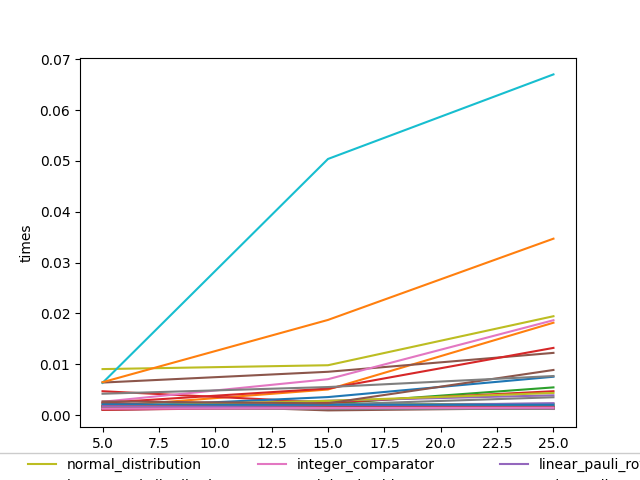
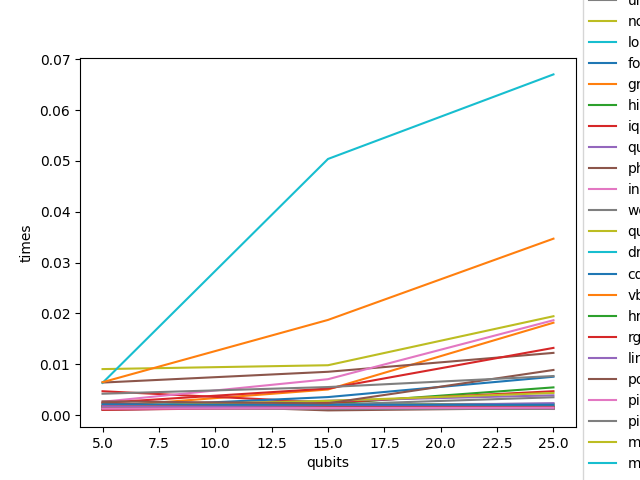
More plots

diff --git a/benchmarking/data-analysis/error_mitigation.py b/benchmarking/data-analysis/error_mitigation.py
@@ -1,0 +1,74 @@
+from matplotlib import pyplot as plt
+from plot_hardware import qubit_count
+
+
+# Plotting Method
+def plot_circuit_series(filename, measurements, qubits, circuit_values):
+    x = "measurement_frequency"
+    y = "times"
+
+    for i in range(0, len(qubits)):
+        plt.plot(measurements, circuit_values[i], label="qubit num. "+str(qubits[i]))
+    plt.legend(loc='center left', bbox_to_anchor=(1, 0.5))
+    plt.xlabel(x)
+    plt.ylabel(y)
+    plt.xscale('log')
+    plt.savefig(filename)
+    plt.show()
+
+
+meaurmenent_counts = [1, 10, 100, 1000, 10000]
+
+# Fourier Checking
+fourier_5 = [0.0015552043914794922, 0.00419163703918457, 0.004338979721069336, 0.004442453384399414, 0.004245664596557617]
+fourier_15 = [0.0017101764678955078,0.0016987323760986328,0.0018279552459716797,0.0016982555389404297, 0.0017032623291015625]
+fourier_25 = [0.0018101764678955078,0.0018987323760986328,0.0019279552459716797,0.0018982555389404297, 0.0018032623291015625]
+
+fourier = [fourier_5, fourier_15, fourier_25]
+
+plot_circuit_series("error-mitigation/fourier", meaurmenent_counts, qubit_count, fourier)
+
+# Graph State
+graph_state_5 = [0.004237651824951172, 0.004283905029296875, 0.004235744476318359, 0.004435300827026367, 0.0033478736877441406]
+graph_state_15 = [0.0025963783264160156, 0.0032482147216796875, 0.0017275810241699219, 0.0037376880645751953, 0.0032036304473876953]
+graph_state_25 = [0.0024957656860351562, 0.001695394515991211, 0.002837657928466797, 0.0021958351135253906, 0.0032296180725097656]
+
+graph_state = [graph_state_5, graph_state_15, graph_state_25]
+
+plot_circuit_series("error-mitigation/graph_state.png", meaurmenent_counts, qubit_count, graph_state)
+
+# Hidden Linear Functions
+hlf_5 = [0.004270792007446289, 0.004221439361572266, 0.002185344696044922, 0.004270315170288086, 0.0043141841888427734]
+hlf_15 = [0.002771139144897461, 0.0024518966674804688, 0.002363443374633789, 0.003195047378540039, 0.0030210018157958984]
+hlf_25 = [0.00293731689453125, 0.0027055740356445312, 0.0023648738861083984, 0.0028791427612304688, 0.002352476119995117]
+
+hlf = [hlf_5, hlf_15, hlf_25]
+
+plot_circuit_series("error-mitigation/hlf.png", meaurmenent_counts, qubit_count, hlf)
+
+# IQP
+iqp_5 = [0.0024025440216064453, 0.0019953250885009766, 0.0028755664825439453, 0.0024080276489257812, 0.0031311511993408203]
+iqp_15 = [0.0021255016326904297, 0.0020329952239990234, 0.0020914077758789062, 0.0020284652709960938, 0.002021312713623047]
+iqp_25 = [0.0024111270904541016, 0.002452850341796875, 0.0024459362030029297, 0.002575397491455078, 0.002641916275024414]
+
+iqp = [iqp_5, iqp_15, iqp_25]
+
+plot_circuit_series("error-mitigation/iqp.png", meaurmenent_counts, qubit_count, iqp)
+
+# Quantum Volume
+qv_5 = [0.0019474029541015625, 0.0021491050720214844, 0.0019631385803222656, 0.001760244369506836, 0.002580404281616211]
+qv_15 = [0.0018846988677978516, 0.0017895698547363281, 0.001806497573852539, 0.0018258094787597656, 0.0018625259399414062]
+qv_25 = [0.002277374267578125, 0.002415895462036133, 0.0023734569549560547, 0.002448558807373047, 0.0023140907287597656]
+
+qv = [qv_5, qv_15, qv_25]
+
+plot_circuit_series("error-mitigation/qv.png", meaurmenent_counts, qubit_count, qv)
+
+# Phase Estimation
+phase_estimation_5 = [0.0023458003997802734, 0.002457857131958008, 0.0024001598358154297, 0.0023598670959472656, 0.002312183380126953]
+phase_estimation_15 = [0.0009253025054931641, 0.0009300708770751953, 0.0009174346923828125, 0.0009143352508544922, 0.0009362697601318359]
+phase_estimation_25 = [0.0014119148254394531, 0.0013856887817382812, 0.0013885498046875, 0.0013506412506103516, 0.0013644695281982422]
+
+phase_estimation = [phase_estimation_5, phase_estimation_15, phase_estimation_25]
+
+plot_circuit_series("error-mitigation/phase_estimation.png", meaurmenent_counts, qubit_count, phase_estimation)

diff --git a/benchmarking/data-analysis/plot_hardware.py b/benchmarking/data-analysis/plot_hardware.py
@@ -8,8 +8,7 @@ def plot_circuit_series(filename, qubits, circuit_names, circuit_values):
 
     for i in range(0, len(circuit_names)):
         plt.plot(qubits, circuit_values[i], label=circuit_names[i])
-    plt.legend(loc='upper center', bbox_to_anchor=(0.5, -0.05),
-          fancybox=True, shadow=True, ncol=5)
+    plt.legend(loc='center left', bbox_to_anchor=(1, 0.5))
     plt.xlabel(x)
     plt.ylabel(y)
     plt.savefig(filename)
@@ -46,7 +45,7 @@ literal_arithmetic_circuits = [integer_comparator,
                                 hrs_cum_mult,
                                 rgqft_mult]
 
-# plot_circuit_series("arithmetic_circuits.png", qubit_count, arithmetic_circuits, literal_arithmetic_circuits)
+plot_circuit_series("arithmetic_circuits.png", qubit_count, arithmetic_circuits, literal_arithmetic_circuits)
 
 # N-Local Circuits
 n_local_circuits = ['qft',
@@ -73,7 +72,7 @@ literal_n_local_circuits = [qft,
                             excitation_preserving,
                             excitation_preserving_linear]
 
-# plot_circuit_series("n_local_circuits.png", qubit_count, n_local_circuits, literal_n_local_circuits)
+plot_circuit_series("n_local_circuits.png", qubit_count, n_local_circuits, literal_n_local_circuits)
 
 # Particular Quantum Circuits
 particular_circuits = ['fourier_checking',
@@ -97,7 +96,7 @@ literal_particular_circuits = [fourier_checking,
                                quantum_volume,
                                phase_estimation]
 
-# plot_circuit_series("particular_circuits.png", qubit_count, particular_circuits, literal_particular_circuits)
+plot_circuit_series("particular_circuits.png", qubit_count, particular_circuits, literal_particular_circuits)
 
 # Probability Distribution Circuits
 prob_distro_circuits = ['uniform_distribution',
@@ -112,7 +111,7 @@ literal_prob_distro_circuits = [uniform_distribution,
                                 normal_distribution,
                                 log_normal_distribution]
 
-#plot_circuit_series("prob_distro_circuits.png", qubit_count, prob_distro_circuits, literal_prob_distro_circuits)
+plot_circuit_series("prob_distro_circuits.png", qubit_count, prob_distro_circuits, literal_prob_distro_circuits)
 
 # Standard Gates
 standard_gates = ['barrier',
@@ -124,7 +123,7 @@ mc_phase = [0.004196882247924805, 0.005513191223144531, 0.007679939270019531]
 literal_standard_gates = [barrier,
                           mc_phase]
 
-#plot_circuit_series("standard_circuits.png", qubit_count, standard_gates, literal_standard_gates)
+plot_circuit_series("standard_circuits.png", qubit_count, standard_gates, literal_standard_gates)
 
 # Pauli-Rotational Circuits
 pauli_rotational_gates = ['linear_pauli_rotations',
@@ -142,7 +141,7 @@ literal_pauli_rotations = [linear_pauli_rotations,
                            piecewise_lin_pauli_rotations,
                            piecewise_poly_pauli_rotations]
 
-#plot_circuit_series("pauli_rotational_circuits.png", qubit_count, pauli_rotational_gates, literal_pauli_rotations)
+plot_circuit_series("pauli_rotational_circuits.png", qubit_count, pauli_rotational_gates, literal_pauli_rotations)
 
 # Generalized Gates
 generalized_gates = ['mcmt',
@@ -173,7 +172,7 @@ literal_generalized_gates = [mcmt,
                              gry,
                              grz]
 
-#plot_circuit_series("circuits/generalized_gates.png", qubit_count, generalized_gates, literal_generalized_gates)
+plot_circuit_series("circuits/generalized_gates.png", qubit_count, generalized_gates, literal_generalized_gates)
 
 final_list = literal_n_local_circuits + literal_prob_distro_circuits + literal_particular_circuits\
                    + literal_arithmetic_circuits + literal_pauli_rotations + literal_generalized_gates\

diff --git a/benchmarking/data-analysis/noise_pulse_profiling.py b/benchmarking/data-analysis/noise_pulse_profiling.py
@@ -1,9 +1,9 @@
 import matplotlib.pyplot as plt
 from plot_hardware import plot_circuit_series
 
-noise_qubit = [12, 16, 20]
+qubit = [12, 16, 20]
 
-noise_circuits = ['fourier_checking',
+damping_noise = ['fourier_checking',
                   'graph_state',
                   'hidden_linear_function',
                   'iqp',
@@ -11,18 +11,41 @@ noise_circuits = ['fourier_checking',
                   'phase_estimation']
 
 
-fourier_checking = [0.001523733139038086, 0.003541231155395508, 0.007541231155395508]
-graph_state = [0.0015609264373779297, 0.0013730525970458984, 0.0013060569763183594]
-hidden_linear_function = [0.001886129379272461, 0.0012502670288085938, 0.0012717247009277344]
-iqp = [0.002405881881713867, 0.005211830139160156, 0.013214826583862305]
-quantum_volume = [0.0018541812896728516, 0.0016889572143554688, 0.0023360252380371094]
-phase_estimation = [0.0023887157440185547, 0.0009195804595947266, 0.0013735294342041016]
+fourier_checking = [0.05328655242919922, 0.05523228645324707, 0.11886787414550781]
+graph_state = [0.06038928031921387, 0.05713629722595215, 0.10975933074951172]
+hidden_linear_function = [0.07265567779541016, 0.11040592193603516, 0.06953048706054688]
+iqp = [0.08864378929138184, 0.08291220664978027, 0.07298707962036133]
+quantum_volume = [0.06019949913024902, 0.07570600509643555, 0.06973075866699219]
+phase_estimation = [0.03302001953125, 0.03224349021911621, 0.04004240036010742]
 
-literal_particular_circuits = [fourier_checking,
-                               graph_state,
-                               hidden_linear_function,
-                               iqp,
-                               quantum_volume,
-                               phase_estimation]
+literal_damping_noise = [fourier_checking,
+                         graph_state,
+                         hidden_linear_function,
+                         iqp,
+                         quantum_volume,
+                         phase_estimation]
 
-# plot_circuit_series("particular_circuits.png", qubit_count, particular_circuits, literal_particular_circuits)
+plot_circuit_series("damping_noise_profiles.png", qubit, damping_noise, literal_damping_noise)
+
+depolarising_noise = ['fourier_checking',
+                  'graph_state',
+                  'hidden_linear_function',
+                  'iqp',
+                  'quantum_volume',
+                  'phase_estimation']
+
+fourier_checking = [0.004895448684692383, 0.010708093643188477, 0.3521573543548584]
+graph_state = [0.007156848907470703, 0.005805492401123047, 0.006085872650146484]
+hidden_linear_function = [0.005984306335449219, 0.005419731140136719, 0.011576652526855469]
+iqp = [0.005495786666870117, 0.005492687225341797, 0.005217790603637695]
+quantum_volume = [0.00456547737121582, 0.0046405792236328125, 0.005121469497680664]
+phase_estimation = [0.0035953521728515625, 0.004235982894897461, 0.004595756530761719]
+
+literal_depolarising_noise = [fourier_checking,
+                              graph_state,
+                              hidden_linear_function,
+                              iqp,
+                              quantum_volume,
+                              phase_estimation]
+
+plot_circuit_series("noise/depolarising_noise_profiles.png", qubit, depolarising_noise, literal_depolarising_noise)

diff --git a/benchmarking/data-analysis/algorithm_benchmarks.py b/benchmarking/data-analysis/algorithm_benchmarks.py
@@ -1,0 +1,90 @@
+import numpy as np
+import pandas as pd
+import matplotlib.pyplot as plt
+
+def plot_historgram(X, data, groupings, name, title):
+    to_add = {}
+    for i in range(0, len(data)):
+        to_add[groupings[i]] = data[i]
+
+    df = pd.DataFrame(to_add, index=X)
+    ax = df.plot.bar(rot=0)
+    plt.xlabel("Nodes")
+    plt.ylabel("Time (ms)")
+    plt.savefig(name)
+    plt.title(title)
+    plt.show()
+
+
+# Knapsack
+knap_max_weights = [2, 4, 8, 16]
+knap_types = ["qubo", "grover", "qaoa", "vqe"]
+
+knap_vals_qubo = [13.3, 14.0, 13.4, 12.4]
+knap_vals_grover = [117, 255, 214, 166]
+knap_vals_qaoa = [176, 230, 318, 383]
+knap_vals_vqe = [144, 165, 211, 232]
+knap_all = [knap_vals_qubo, knap_vals_grover, knap_vals_qaoa, knap_vals_vqe]
+
+#plot_historgram(knap_max_weights, knap_all, knap_types, "algos/knapsack.png", "Knapsack benchmarks with different weight counts")
+
+# Maxcut
+maxcut_degrees = [3, 5, 7, 9]
+maxcut_types = ["qubo", "10x(grover)", "qaoa", "vqe"]
+
+maxcut_vals_qubo = [11.5, 14.2, 20, 23.2]
+maxcut_vals_grover = [8.52, 12.1, 11.66, 11.0]
+maxcut_vals_qaoa = [271, 348, 425, 539]
+maxcut_vals_vqe = [293, 311, 375, 380]
+maxcut_all = [maxcut_vals_qubo, maxcut_vals_grover, maxcut_vals_qaoa, maxcut_vals_vqe]
+
+#plot_historgram(maxcut_degrees, maxcut_all, maxcut_types, "algos/maxcutsack.png", "Maxcuts benchmarks with 12 nodes at different degrees")
+
+# Vertex-cover
+vc_degrees = [3, 5, 7, 9]
+vc_types = ["qubo", "10x(grover)", "qaoa", "vqe"]
+
+vc_vals_qubo = [12.2, 16.1, 18.0, 21.4]
+vc_vals_grover = [7.56, 8.72, 11.1, 10.6]
+vc_vals_qaoa = [394, 477, 571, 656]
+vc_vals_vqe = [358, 412, 469, 475]
+vc_all = [vc_vals_qubo, vc_vals_grover, vc_vals_qaoa, vc_vals_vqe]
+
+#plot_historgram(vc_degrees, vc_all, vc_types, "algos/vertex_cover.png", "Vertex cover benchmarks with 12 nodes at different degrees")
+
+# Docplex
+lower_bound = ['lower bound -4', 'lower bound -3', 'lower bound -2', 'lower bound -1']
+upper_bound = [2, 3, 4, 5]
+
+lb_4 = [1.62, 1.57, 1.57, 1.54]
+lb_3 = [1.52, 1.64, 1.58, 1.61]
+lb_2 = [2.08, 1.53, 1.57, 1.66]
+lb_1 = [1.58, 1.62, 1.59, 1.58]
+lb_all = [lb_4, lb_3, lb_2, lb_1]
+
+#plot_historgram(upper_bound, lb_all, lower_bound, "algos/docplex.png", "Docplex benchmarks for qubo at different ranges")
+
+# Clique
+clique_nodes = [5, 10, 17]
+clique_types = ["2-degrees", "4-degrees", "8-degrees", "16-degrees"]
+
+clique_vals_2 = [122, 420, 1570]
+clique_vals_4 = [85, 354, 1410]
+clique_vals_8 = [0, 233, 1086]
+clique_vals_16 = [0, 0, 386]
+clique_all = [clique_vals_2, clique_vals_4, clique_vals_8, clique_vals_16]
+
+#plot_historgram(clique_nodes, clique_all, clique_types, "algos/clique.png", "Clique benchmarks different node degree combinations")
+'''clique_nodes = [5, 10, 17]
+clique_types = ["2-degrees", "4-degrees", "8-degrees", "16-degrees"]
+
+clique_vals_2 = [8.33, 17.5, 41.6]
+clique_vals_4 = [6.05, 14.7, 36.9]
+clique_vals_8 = [0, 9.24, 27.7]
+clique_vals_16 = [0, 0, 7.79]
+clique_all = [clique_vals_2, clique_vals_4, clique_vals_8, clique_vals_16]'''
+
+#plot_historgram(clique_nodes, clique_all, clique_types, "algos/clique_startup.png", "Clique converter benchmarks at different node degree combinations")
+
+# Protein Folding
+
